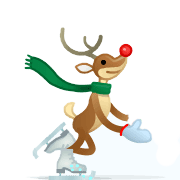
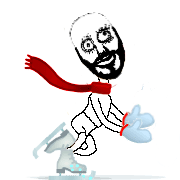
Added final graphics

diff --git a/Oromator/GameScene.m b/Oromator/GameScene.m
@@ -118,7 +118,7 @@
 {
     // Player
     NSMutableArray *pwalkFrames = [NSMutableArray array];
-    SKTextureAtlas *palyerAnimatedAtlas = [SKTextureAtlas atlasNamed:@"Orom"];
+    SKTextureAtlas *palyerAnimatedAtlas = [SKTextureAtlas atlasNamed:@"Player"];
     NSUInteger pnumImages = palyerAnimatedAtlas.textureNames.count;
     for (NSUInteger i= 0; i < pnumImages; i++) {
         NSString *textureName = [NSString stringWithFormat:@"tmp-%d", (int)i];
@@ -289,8 +289,8 @@
     
     startlabel = [[UILabel alloc] init];
     [startlabel setTranslatesAutoresizingMaskIntoConstraints:NO];
-    startlabel.text = @"The Match\nStarts in\n 5 seconds";
-    startlabel.numberOfLines = 3;
+    startlabel.text = @"The Match\nStarts in\n 5 seconds\nKeep tapping !";
+    startlabel.numberOfLines = 4;
     startlabel.textAlignment = NSTextAlignmentCenter;
     startlabel.font = [UIFont boldSystemFontOfSize:35];
     startlabel.tintColor = [UIColor blackColor];
@@ -315,7 +315,7 @@
 -(void)startupTimer
 {
     mStartupCounter = mStartupCounter - 1;
-    startlabel.text = [NSString stringWithFormat:@"The Match\nStarts in\n %ld seconds", mStartupCounter];
+    startlabel.text = [NSString stringWithFormat:@"The Match\nStarts in\n %ld seconds\nKeep tapping !", mStartupCounter];
     if (mStartupCounter == 0)
     {
         [mStartTimer invalidate];
